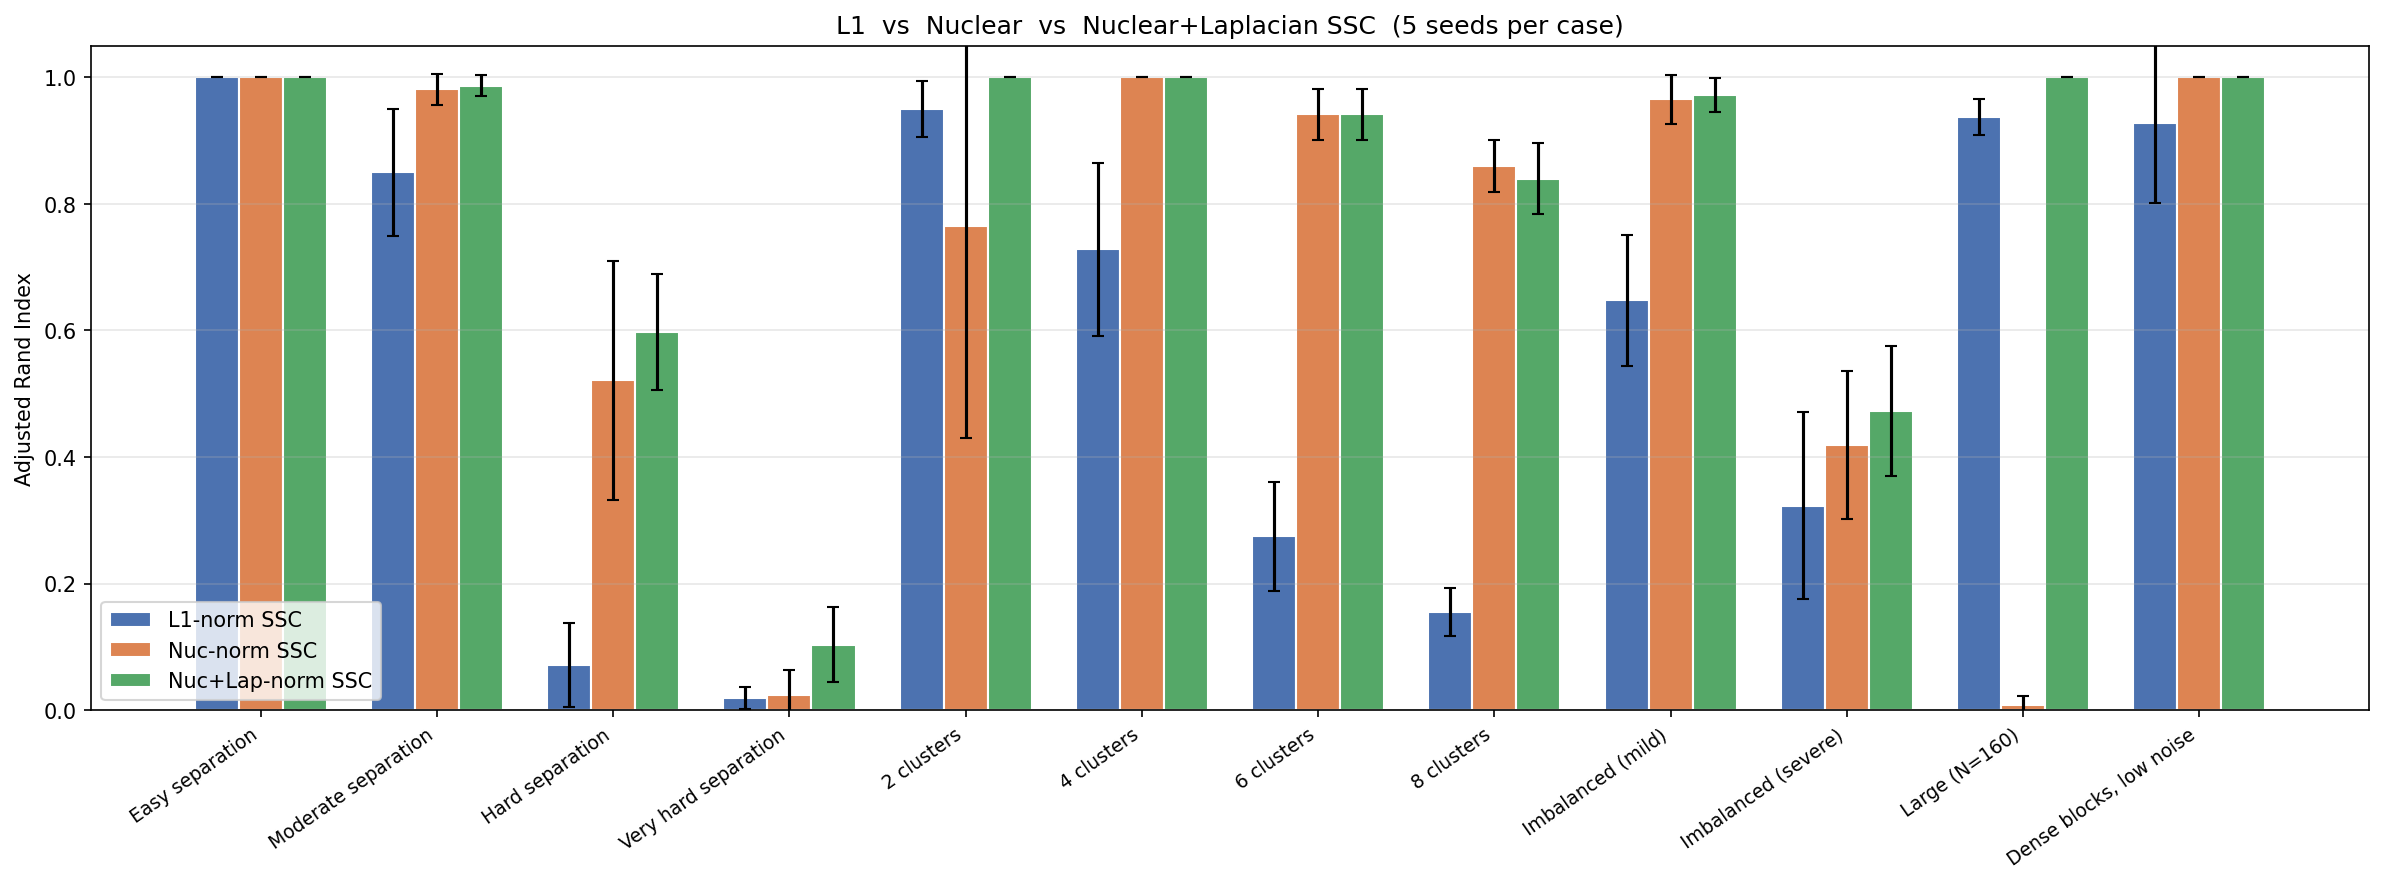
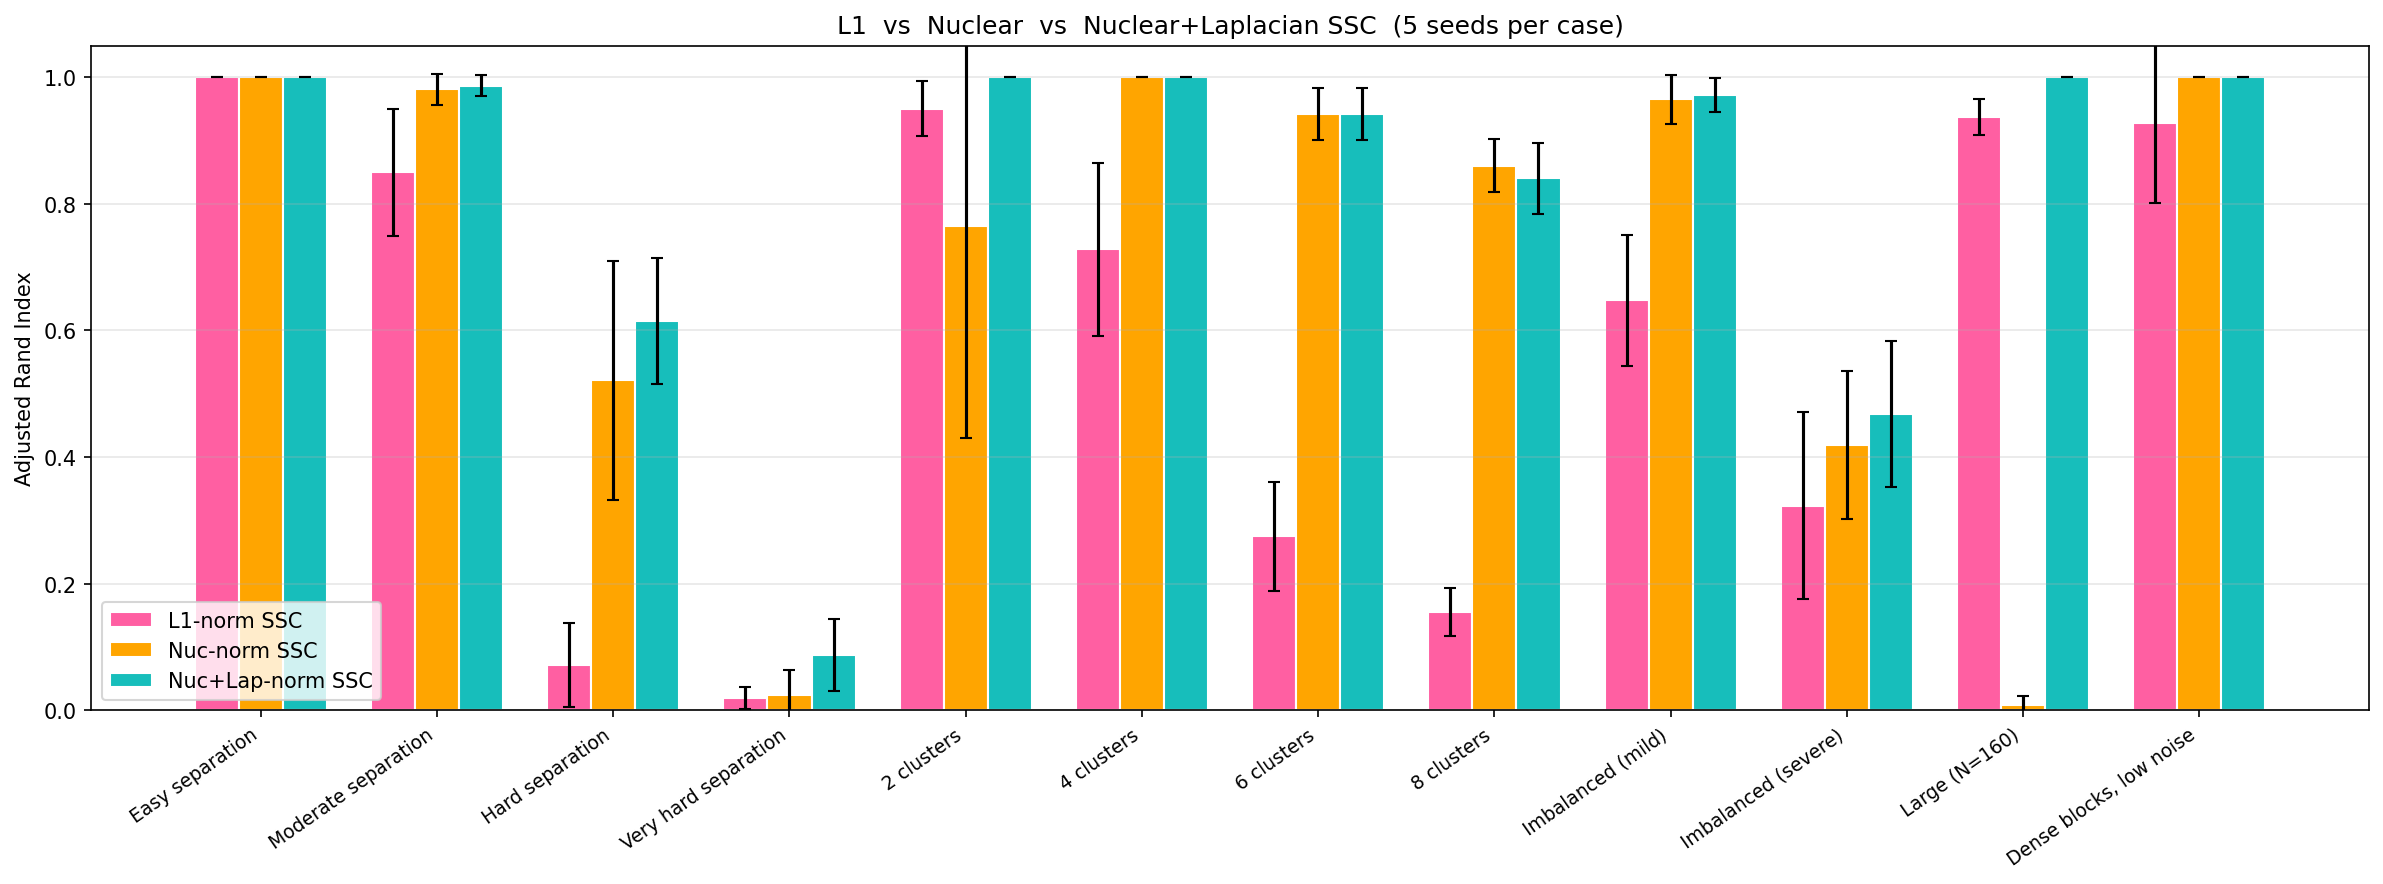
iter counts so 1 is included and lap exactly matches derivation

diff --git a/ssc_admm_nuc_lap.py b/ssc_admm_nuc_lap.py
@@ -147,20 +147,25 @@ def ssc_admm_nuc_lap(
         # J-update (same as nuclear-norm objective): SVT on (C + Gamma/rho)
         U, s, Vt = np.linalg.svd(C + Gamma / rho, full_matrices=False)
         J = (U * soft_threshold(s, 1.0 / rho)) @ Vt
+        #J = soft_threshold(C + Gamma / rho, 1.0 / rho)
 
-        # C-update (only difference): Laplacian-regularised solve using same A, B
-        # A and B follow `ssc_admm_nuc.py` exactly:
+        # C-update: column-wise solve per derived formula
+        #   c^j = ((μ+ρ)I + 2γL - μ e_j e_j^T)^{-1} (μ(a_j - a_{jj} e_j) + ρ b_j)
+        # The rank-1 correction -μ e_j e_j^T removes the μ penalty from the j-th diagonal
+        # (constraint 1 is X = C_off, so it does not constrain C_jj), and the -a_{jj} e_j
+        # term in the RHS removes the μ contribution from row j of the system.
         A = X + Lambda / mu
         B = J - Gamma / rho
 
-        # Freeze Laplacian at previous C to avoid differentiating through |C|
         L = graph_laplacian(C_prev)
+        M_base = 2.0 * gamma * L + (mu + rho) * I_N   # shared across columns
 
-        # Solve: (2γ L + (μ+ρ)I) C = μA + ρB
-        C = np.linalg.solve(2.0 * gamma * L + (mu + rho) * I_N, mu * A + rho * B)
-
-        # Keep the same diagonal handling as the nuclear-norm version:
-        np.fill_diagonal(C, np.diag(B))
+        # c^j = ((μ+ρ)I + 2γL - μ e_j e_j^T)^{-1} (μ(a_j - a_{jj} e_j) + ρ b_j)
+        for j in range(N):
+            e_j    = I_N[:, j]
+            M_j    = M_base - mu * np.outer(e_j, e_j)          # (μ+ρ)I + 2γL - μ e_j e_j^T
+            rhs_j  = mu * (A[:, j] - A[j, j] * e_j) + rho * B[:, j]  # μ(a_j - a_{jj} e_j) + ρ b_j
+            C[:, j] = np.linalg.solve(M_j, rhs_j)
 
         # E-update (same as nuclear-norm objective)
         E = soft_threshold(Y - Y @ X, lambda_e / lambda_z)
@@ -174,7 +179,7 @@ def ssc_admm_nuc_lap(
         primal_res = max(primal1, primal2)
         dual_res = max(mu * np.linalg.norm(X - X_prev, 'fro'),
                        rho * np.linalg.norm(J - J_prev, 'fro'))
-        if (it + 1) % 50 == 0:
+        if (it) % 5 == 0:
             print(f"  iter {it+1:4d}  primal={primal_res:.2e}  dual={dual_res:.2e}")
         if primal_res < tol and dual_res < tol:
             print(f"  Converged at iter {it + 1}.")

diff --git a/benchmark_norms.py b/benchmark_norms.py
@@ -235,7 +235,8 @@ def plot_comparison(cases, rows, save_path="benchmark_norms.png"):
     n_methods = len(METHODS)
     w = 0.25
     offsets = np.linspace(-(n_methods - 1) / 2 * w, (n_methods - 1) / 2 * w, n_methods)
-    colors = {"l1": "#4C72B0", "nuc": "#DD8452", "nuc_lap": "#55A868"}
+    # Match requested palette: pink, teal, bright orange
+    colors = {"l1": "#FF5FA2", "nuc": "#FFA500", "nuc_lap": "#17BEBB"}
 
     fig, ax = plt.subplots(figsize=(16, 6))
     for m, off in zip(METHODS, offsets):
@@ -267,7 +268,8 @@ def plot_time_comparison(cases, rows, save_path="benchmark_norms_time.png"):
     n_methods = len(METHODS)
     w = 0.25
     offsets = np.linspace(-(n_methods - 1) / 2 * w, (n_methods - 1) / 2 * w, n_methods)
-    colors = {"l1": "#4C72B0", "nuc": "#DD8452", "nuc_lap": "#55A868"}
+    # Match requested palette: pink, teal, bright orange
+    colors = {"l1": "#FF5FA2", "nuc": "#FFA500", "nuc_lap": "#17BEBB"}
 
     fig, ax = plt.subplots(figsize=(16, 5))
     for m, off in zip(METHODS, offsets):

diff --git a/ssc_admm_nuc.py b/ssc_admm_nuc.py
@@ -103,6 +103,7 @@ def ssc_admm(
     for it in range(max_iter):
         X_prev = X.copy()
         J_prev = J.copy()
+        C_prev = C.copy()
 
         # X-update:
         #   (lambda_z Y^T Y + mu I) X = lambda_z Y^T (Y - E) + mu (C - diag(C)) - Lambda
@@ -137,7 +138,7 @@ def ssc_admm(
         primal_res = max(primal1, primal2)
         dual_res = max(mu * np.linalg.norm(X - X_prev, 'fro'),
                        rho * np.linalg.norm(J - J_prev, 'fro'))
-        if (it + 1) % 50 == 0:
+        if (it) % 50 == 0:
             print(f"  iter {it+1:4d}  primal={primal_res:.2e}  dual={dual_res:.2e}")
         if primal_res < tol and dual_res < tol:
             print(f"  Converged at iter {it + 1}.")

diff --git a/ssc_admm.py b/ssc_admm.py
@@ -132,7 +132,7 @@ def ssc_admm(Y, lambda_e=1.0, lambda_z=10.0, mu=1.0, max_iter=500, tol=1e-4):
         # Convergence: primal = ||X - C||,  dual = μ||X - X_prev||
         primal_res = np.linalg.norm(X - C, 'fro') # check the condition is met
         dual_res   = mu * np.linalg.norm(X - X_prev, 'fro') # check algo is converging in final values
-        if (it + 1) % 50 == 0:
+        if (it) % 50 == 0:
             print(f"  iter {it+1:4d}  primal={primal_res:.2e}  dual={dual_res:.2e}")
         if primal_res < tol and dual_res < tol:
             print(f"  Converged at iter {it + 1}.")

diff --git a/hic_clustering.py b/hic_clustering.py
@@ -233,7 +233,7 @@ def main() -> None:
     p.add_argument("--out", default="hic_ssc.png", help="Output PNG filename")
     args = p.parse_args()
 
-    window = HicWindow(chrom=args.chrom, binsize=args.binsize, start_bp=args.start_bp, n_bins=300)
+    window = HicWindow(chrom=args.chrom, binsize=args.binsize, start_bp=args.start_bp, n_bins=200)
     print(
         f"Loading Hi-C: {args.hic}\n"
         f"  chrom={window.chrom} binsize={window.binsize} start_bp={window.start_bp} end_bp={window.end_bp}"
